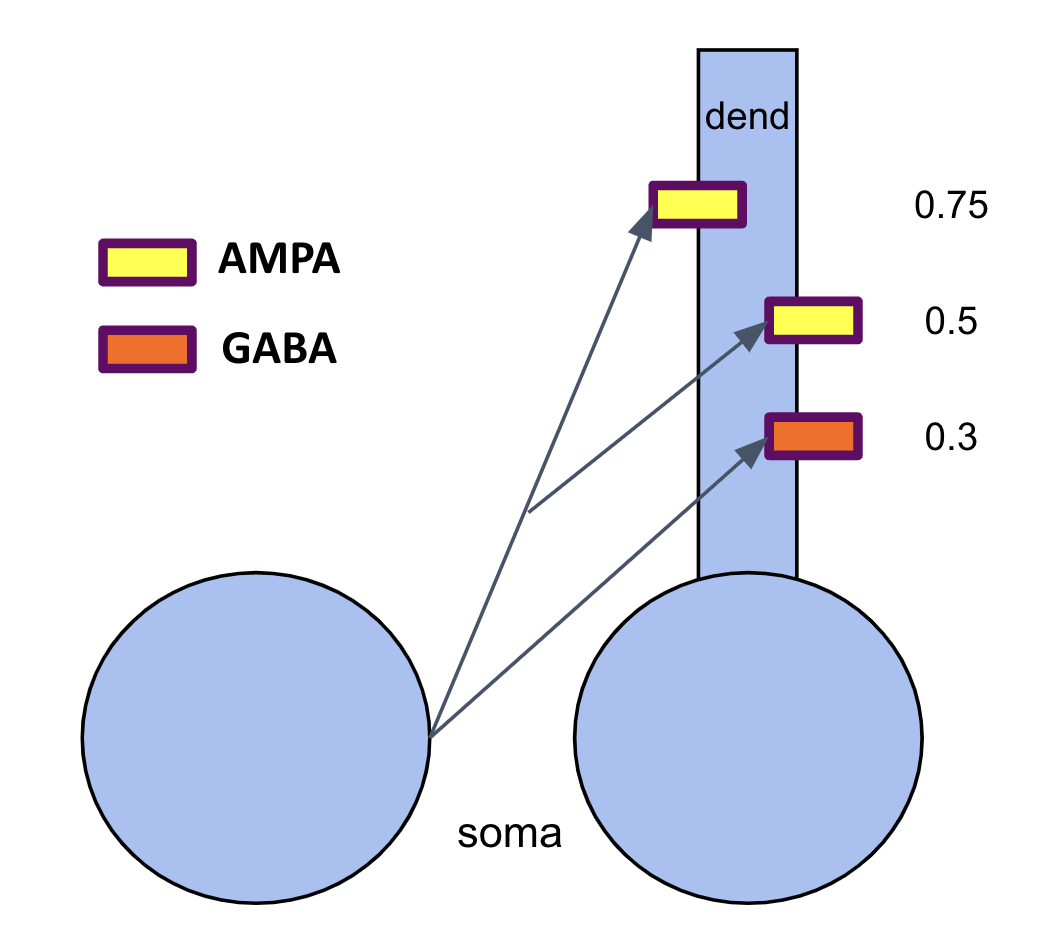
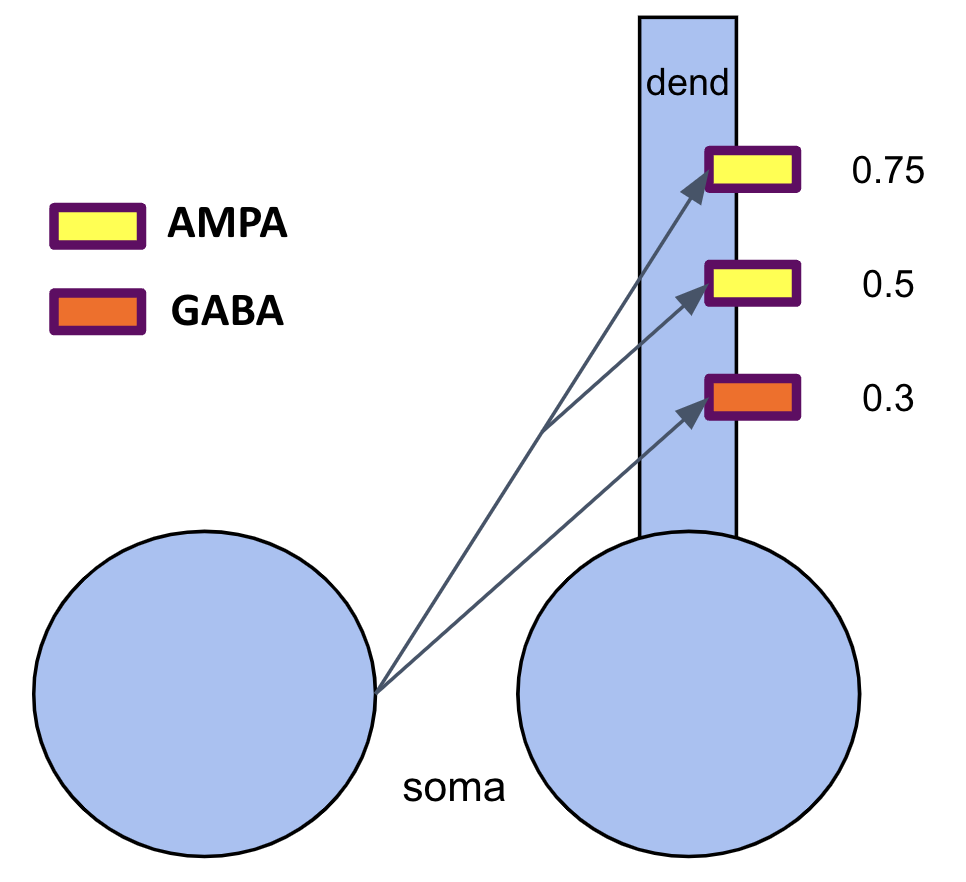
some correcitions to code and docs for multisynaptic connections

diff --git a/netpyne/cell/compartCell.py b/netpyne/cell/compartCell.py
@@ -435,16 +435,7 @@ If this cell is expected to be a point cell instead, make sure the correspondent
                                 mechParamValueFinal = self.__evaluateCellParamsStringFunc(
                                     func, vars, sec, seg.x, cellVars
                                 )
-                        try:
-                            setattr(getattr(seg, mechName), mechParamName, mechParamValueFinal)
-                        except Exception as e:
-                            #  if it's not a global raise AttributeError
-                            if getattr(h, "%s_%s".format(mechParamName, mechName), AttributeError) is AttributeError:
-                                raise AttributeError(
-                                    "Error setting %s.%s.%s = %s\nmechanism parameter is neither a mechanism attribute nor a mechanism global" % (sectName, mechName, mechParamName, mechParamValueFinal)
-                                )
-                            else: #
-                                pass
+                        setattr(getattr(seg, mechName), mechParamName, mechParamValueFinal)
         return mechInsertError
 
     def _addIons(self, sectName, sectParams):
@@ -1378,7 +1369,7 @@ If this cell is expected to be a point cell instead, make sure the correspondent
                     Ey = cos(theta)
                     Ez = sin(theta)*sin(phi)
                     E_field = np.expand_dims([Ex, Ey, Ez], axis=1)
-                    tr = -np.einsum('ij,ij->j', E_field, rel_05)  # compute dot product column-wise, the resulting array has as many columns as original
+                    tr = np.einsum('ij,ij->j', E_field, rel_05)  # compute dot product column-wise, the resulting array has as many columns as original
                     tr *= 1e-9
                 else:
                     print(" Extracellular stimulation not defined")
@@ -1640,7 +1631,7 @@ If this cell is expected to be a point cell instead, make sure the correspondent
         if synsPerConn > 1:  # if more than 1 synapse
             synMechSecs, synMechLocs = self._secsAndLocsForMultisynapse(params, isExplicitLoc, secLabels, connRandomSecFromList, distributeSynsUniformly)
         else:  # if 1 synapse
-            synMechSecs, synMechLocs = self._secsAndLocsForSingleSynapse(params, isExplicitLoc, secLabels, connRandomSecFromList)
+            synMechSecs, synMechLocs = self._secsAndLocsForSingleSynapse(params, secLabels, connRandomSecFromList)
 
         # add synaptic mechanism to section based on synMechSecs and synMechLocs (if already exists won't be added unless nonLinear set to True)
         synMechs = []
@@ -1649,7 +1640,7 @@ If this cell is expected to be a point cell instead, make sure the correspondent
             synMechs.append(synMech)
         return synMechs, synMechSecs, synMechLocs
 
-    def _secsAndLocsForSingleSynapse(self, params, isExplicitLoc, secLabels, connRandomSecFromList):
+    def _secsAndLocsForSingleSynapse(self, params, secLabels, connRandomSecFromList):
 
         # by default place on 1st section of list and location available
         synMechSecs = secLabels
@@ -1658,9 +1649,9 @@ If this cell is expected to be a point cell instead, make sure the correspondent
 
         # randomize the section to connect to and move it to beginning of list
         if connRandomSecFromList and len(synMechSecs) > 1:
-            if isExplicitLoc: # if loc was specified explicitly by user, they should've provided correct number of locs
+            if len(synMechLocs) > 1: # if loc was specified as list, its length should match the number of sections
                 _ensure(len(synMechSecs) == len(synMechLocs), params, "With connRandomSecFromList == True and synsPerConn == 1 (defaults), the lengths of the list of locations and the list of sections must be the same, in order to use the same randomly generated index for both")
-            else: # if using defaults, adjust it to match the number of sections
+            else: # for single loc (or 1-element list), adjust it to match the number of sections
                 synMechLocs = synMechLocs * len(synMechSecs)
 
             rand = h.Random()
@@ -1682,12 +1673,12 @@ If this cell is expected to be a point cell instead, make sure the correspondent
                 _ensure(len(loc) == synsPerConn, params, "The length of the list of locations does not match synsPerConn")
                 synMechLocs = loc
             else: # single value or no value
-                _ensure(isExplicitLoc == False, params, f"specifiyng the `loc` as single value when synsPerConn > 1 ({synsPerConn} in your case) is deprecated. To silence this warning, remove `loc` from the connection parameters or provide a list of {synsPerConn} values (per each synMech if they are several).")
+                _ensure(isExplicitLoc == False, params, f"specifiyng the `loc` as single value when synsPerConn > 1 ({synsPerConn} in your case) is deprecated. To silence this warning, remove `loc` from the connection parameters (locations will be distributed uniformly along the section) or provide a list of {synsPerConn} values (or list of such lists, if your connParams has multiple synMechs).")
                 synMechLocs = [i / synsPerConn + 1 / synsPerConn / 2 for i in range(synsPerConn)]
         else:
             # if multiple sections, distribute syns uniformly
             if distributeSynsUniformly:
-                _ensure(isExplicitLoc == False, params, f"specifiyng the `loc` explicitly when distributeSynsUniformly is True and multiple sections provided is deprecated. To silence this warning, remove `loc` from the connection parameters or set distributeSynsUniformly to False.")
+                _ensure(isExplicitLoc == False, params, f"specifiyng the `loc` explicitly when distributeSynsUniformly is True (default) and multiple sections are provided is deprecated. To silence this warning, remove `loc` from the connection parameters or set distributeSynsUniformly to False.")
                 synMechSecs, synMechLocs = self._distributeSynsUniformly(secList=secLabels, numSyns=synsPerConn)
             else:
                 if connRandomSecFromList:
@@ -1705,7 +1696,7 @@ If this cell is expected to be a point cell instead, make sure the correspondent
                     synMechSecs = secLabels
                     synMechLocs = loc
         return synMechSecs, synMechLocs
-    
+
     def _randomSecAndLocFromList(self, params, synsPerConn, secLabels, loc, isExplicitLoc):
         rand = h.Random()
         preGid = params['preGid'] if isinstance(params['preGid'], int) else 0
@@ -1723,7 +1714,7 @@ If this cell is expected to be a point cell instead, make sure the correspondent
             randLocPos = randInt(rand, N=synsPerConn, vmin=0, vmax=maxval, unique=isUnique)
             synMechLocs = [loc[i] for i in randLocPos]
         else:
-            _ensure(isExplicitLoc == False, params, f"specifiyng the `loc` explicitly when distributeSynsUniformly is False and connRandomSecFromList is True (with multiple sections provided) is deprecated. To silence this warning, remove `loc` from the connection parameters.")
+            _ensure(isExplicitLoc == False, params, f"specifiyng the `loc` as single value when connRandomSecFromList is True (with multiple sections provided) is deprecated. To silence this warning, provide a list, or remove `loc` from the connection parameters (locations will be picked from a uniform distribution).")
 
             rand.uniform(0, 1)
             synMechLocs = h.Vector(synsPerConn).setrand(rand).to_python()

diff --git a/doc/source/user_documentation.rst b/doc/source/user_documentation.rst
@@ -378,7 +378,9 @@ Each item of the ``connParams`` ordered dictionary consists of a key and value. 
 
 	Can be defined as a name of a single section, a list of sections, e.g. ``['soma', 'dend']``, or key from **secList** dictionary of post-synaptic cellParams.
 
-	If specified as a list, can be handled in different ways - see :ref:`Multisynapse connections<multisynapse_conn>` for more details.
+	If ``synsPerConn`` > 1 and a list of sections is specified, synapses will be distributed uniformly along the specified section(s), taking into account the length of each section. This is a default behavior, but it can be modified - see :ref:`Multisynapse connections<multisynapse_conn>` for details and examples.
+
+	If ``synsPerConn`` == 1 and a list of sections is specified, synapses (one per cell-to-cell connection) will be placed in sections randomly selected from the list. To enforce using always the first section from the list, set :ref:`connRandomSecFromList<conn_rand_sec>`.
 
 * **loc** (optional) - Location of target synaptic mechanism (e.g. ``0.3``)
 	If omitted, defaults to 0.5.
@@ -390,6 +392,8 @@ Each item of the ``connParams`` ordered dictionary consists of a key and value. 
 	If you have both a list of ``synMechs`` and ``synsPerConn`` > 1, you can have a 2D list for each synapse of each synMech (e.g. for two synMechs and ``synsPerConn`` = 3: ``[[0.2, 0.3, 0.5], [0.5, 0.6, 0.7]]``)
 
 	In these multisynapse scenarios, additional parameters become available - see :ref:`Multisynapse connections<multisynapse_conn>` for more details.
+
+	If ``synsPerConn`` == 1 and both ``loc`` and ``sec`` are lists, synapses (one per presynaptic cell) will be placed in locations and sections randomly selected from the lists (note that the random section and location will go hand in hand, i.e. the same random index is used for both). To enforce using always the first section and location from their respective lists, set :ref:`connRandomSecFromList<conn_rand_sec>`, or keep either ``loc`` or ``sec`` as a single value.
 
 
 * **synMech** (optional) - Label (or list of labels) of target synaptic mechanism(s) on the postsynaptic neuron (e.g. ``'AMPA'`` or ``['AMPA', 'NMDA']``)
@@ -406,9 +410,24 @@ Each item of the ``connParams`` ordered dictionary consists of a key and value. 
 
 	The weights, delays and/or locs for each synapse can be specified as a list, or a single value can be used for all.
 
-	When ``synsPerConn`` > 1 and a *single section* is specified, the locations of synapses can be specified as a list in ``loc``. If a *list of target sections* is specified, ``loc`` should be omitted, and synapses will be distributed uniformly along the specified section(s), taking into account the length of each section. See :ref:`Multisynapse connections<multisynapse_conn>` for more details.
+	When ``synsPerConn`` > 1 and a *single section* is specified, the locations of synapses can be specified as a list in ``loc``. If a *list of target sections* is specified, ``loc`` should be omitted, and synapses will be distributed uniformly along the specified section(s), taking into account the length of each section. This is a default behavior, but it can be modified - see :ref:`Multisynapse connections<multisynapse_conn>` for more details.
 
-	If you have a list of ``synMechs``, you can have single ``synsPerConn`` value for all, or a list of values, one per synaptic mechanism in the list.
+	If you have a list of ``synMechs``, you can have single ``synsPerConn`` value for all, or a list of values, one per synaptic mechanism in the list:
+
+	.. code-block:: python
+
+		# 2 AMPA synapses and 2 GABA synapses per each cell-to-cell connection:
+		netParams.connParams[...] = {
+			'synMech': ['AMPA', 'GABA'],
+			'synsPerConn': 2,
+		# ...
+		
+		# 2 AMPA synapses and 1 GABA synapse per each cell-to-cell connection:
+		netParams.connParams[...] = {
+			'synMech': ['AMPA', 'GABA'],
+			'synsPerConn': [2, 1],
+		# ...
+		
 
 * **weight** (optional) - Strength of synaptic connection (e.g. ``0.01``)
 	Associated with a change in conductance, but has different meaning and scale depending on the synaptic mechanism and cell model.
@@ -535,67 +554,72 @@ Here is an example of connectivity rules:
 
 **Connectivity Rules with Multiple Synapses per Connection**
 
-By default, there is only one synapse created per connection. However, multiple synapses can be created targeting each post-synaptic cell. This can be achieved by setting ``synsPerConn`` to a value greater than 1, or by defining ``synMech`` as a list, or both.
+By default, there is only one synapse created per cell-to-cell connection. However, a connection can include multiple individual synaptic contacts, e.g., a presynaptic cell axon can branch and form multiple synaptic contacts at different locations of the postsynaptic cell dendrite. This can be achieved by setting ``synsPerConn`` to a value greater than 1, or by defining ``synMech`` as a list, or both.
 
-* Setting ``synsPerConn`` >= 1 with ``synMech`` as a single value
-	If ``synsPerConn`` is > 1, then for each connection, this number of synapses will be created. The weights and delays can be specified as lists, or a single value can be used for all. ``loc`` should be a list, a single value is not accepted. If ``loc`` is omitted, a uniform distribution is used (i.e., synapses are placed at equal distances along the section).
+* Setting ``synsPerConn`` > 1 with ``synMech`` as a single value
+	If ``synsPerConn`` is > 1, then for each connection, this number of synapses will be created. The weights and delays can be specified as lists, or a single value can be used for all (see example below).
 
-	.. code-block:: python
+	* When a **single section** is specified, all synapses will be created within that section, and their locations can be specified as a list in ``loc`` (one per synapse).
 
-		netParams.connParams['PYR->PYR'] = {
-			'preConds': {'pop': 'src'}, 'postConds': {'pop': 'dst'},
-			'synsPerConn': 2,
-			'weight': [0.1, 0.2], # individual weights for each synapse
-			'delay': 0.1, # single delay for all synapses
-			'loc': [0.5, 1.0] # individual locations for each synapse
-		}
-		# This will create 2 synapses: one with weight 0.1, delay 0.1, and loc 0.5
-		# and another with weight 0.2, delay 0.1, and loc 1.0.
+		.. code-block:: python
 
-	When ``synsPerConn`` > 1 and a *single* section is specified, all synapses will be created there, and the locations of synapses can be specified as a list in ``loc`` (one per synapse, e.g., if ``synsPerConn`` = 3: ``[0.4, 0.5, 0.7]``).
+			netParams.connParams[...] = {
+				'synsPerConn': 2,
+				'sec': 'soma',
+				'synMech': 'AMPA',
+				'weight': [0.1, 0.2], # individual weights for each synapse
+				'delay': 0.1, # single delay for all synapses
+				'loc': [0.5, 1.0] # individual locations for each synapse
+			# ...
 
-	If a *list of sections* is specified (either explicitly or as a key from `secLists`), synapses will be distributed uniformly along the specified section(s), taking into account the length of each section. (E.g., if you provide 'soma' and 'dend' with lengths 10 and 20 respectively, and ``synsPerConn`` = 5, the following sections and locations will be as shown in the figure below). Providing location explicitly is not possible in this case.
+			# This will create 2 synapses: one with weight 0.1, delay 0.1, and loc 0.5
+			# and another with weight 0.2, delay 0.1, and loc 1.0.
 
-	.. image:: figs/multisyn_0.png
-		:width: 50%
-		:align: center
+		A single value for ``loc`` is not accepted. If it is omitted, synapses are placed at equal distances along the section (e.g. with ``synsPerConn`` = 3, synapses will be placed at 0.1666, 0.5 and 0.8333).
 
-	The behavior above is due to the ``distributeSynsUniformly`` flag, which is True by default. Alternatively, if it is set to False (and ``connRandomSecFromList`` is True, which is default value), a random section will be picked from the sections list for each synapse. The ``loc`` value should also be a list, and the values will be picked from it randomly and independently from section choice. If the length of sections or locations list is greater or equal to ``synsPerConn``, random choice is guaranteed to be without replacement. If ``loc`` is omitted, the value for each synapse is randomly sampled from uniform[0, 1]. 
+	* When a **list of sections** is specified (either explicitly or as a key from ``secLists``), the connection logic depends on ``distributeSynsUniformly`` and ``connRandomSecFromList`` attributes. These can be set globally through :ref:`simConfig<conn_rand_sec>`, or individually for each connParams entry (e.g. ``netParams.connParams[...] = {..., 'distributeSynsUniformly': False}``), with individual settings taking precedence. The following options are available:
 
-	To enforce a deterministic way of picking ``sec`` and ``loc``, set ``connRandomSecFromList`` to False (N-th synapse then gets N-th section and N-th loc from their respective lists, or if ``loc`` is a single value, it is used for all synapses). Make sure that lists of sections and locations both have the length equal to ``synsPerConn``.
+		* ``distributeSynsUniformly`` = True (Default)
+			Synapses will be distributed uniformly along the specified section(s), taking into account the length of each section. (E.g., if you specify ``'sec': ['soma', 'dend']`` with lengths of 10 and 20 respectively, and set ``synsPerConn`` = 5, the resulting distribution of synapses will be in the sections and locations illustrated in the figure below). Providing location explicitly is not possible in th is case.
 
-	If ``synsPerConn`` == 1, and a list of sections is specified, synapses (one per presynaptic cell) will be placed in sections randomly selected from the list. If ``loc`` is also a list, locations will be picked randomly (note that the random section and location will go hand in hand, i.e., the same random index is used for both).
+			.. image:: figs/multisyn_0.png
+				:width: 50%
+				:align: center
+
+		* ``distributeSynsUniformly`` = False
+			* If ``connRandomSecFromList`` is ``True`` (default), a random section will be picked from the sections list for each synapse. The ``loc`` value should also be a list, and the values will be picked from it randomly and independently from section choice. If the length of sections or locations list is greater or equal to ``synsPerConn``, random choice is guaranteed to be without replacement. If ``loc`` is omitted, the value for each synapse is randomly sampled from uniform[0, 1].
+
+			* If ``connRandomSecFromList`` is ``False``, sections and locations are assigned deterministically: the N-th synapse receives the N-th section and N-th location from their respective lists (or if ``loc`` is a single value, it is used for all synapses). Ensure that lists of sections and locations both have the length equal to ``synsPerConn``.
 
 * Setting ``synMech`` as a list
 	If ``synMech`` is a list, then for each mechanism in the list, a synapse will be created. The weights, delays, and locs can be specified as lists of the same length as ``synMech``, or a single value can be used for all.
 
 	.. code-block:: python
 
-		netParams.connParams['PYR->PYR'] = {
-			'preConds': {'pop': 'src'}, 'postConds': {'pop': 'dst'},
+		netParams.connParams[...] = {
 			'synMech': ['AMPA', 'GABA'],
 			'weight': [0.1, 0.2], # individual weights for each synapse
 			'delay': 0.1, # single delay for all synapses
-		}
+		# ...
+
 		# This will create 2 synapses: one with AMPA synMech and weight 0.1
 		# and another with GABA synMech and weight 0.2. Both will have the same delay of 0.1.
 
 
-	However, for the sections, no such one-to-one correspondence to ``synMech`` elements applies. Instead, contents of ``secs`` are repeated for each synapse.
+	However, for the sections, no such one-to-one correspondence to ``synMech`` elements applies. Instead, contents of ``secs`` are repeated for each synMech.
 
 	.. code-block:: python
 
-		netParams.connParams['PYR->PYR'] = {
-			'preConds': {'pop': 'src'}, 'postConds': {'pop': 'dst'},
+		netParams.connParams[...] = {
 			'synMech': ['AMPA', 'GABA'],
 			'sec': ['soma', 'dend']
-		}
+		# ...
 		# Both AMPA and GABA synapses will span 'soma' and 'dend' sections
 
 	If you want to have different sections, separate connectivity rules (``connParams`` entries) should be defined for each synaptic mechanism.
 
-* Both ``synMech`` as a list and ``synsPerConn`` > 1
-	If you have both a N-element list of ``synMechs`` and ``synsPerConn`` > 1, weights and delays can still be specified as a single value for all synapses, as a list of length N (each value corresponding to ``synMech`` list index), or a 2D list with outer dimension N (corresponding to ``synMechs``) and inner dimension corresponding to ``synsPerConn``.
+* Setting both ``synMech`` as a list and ``synsPerConn`` > 1
+	If you have both a N-element list of ``synMechs`` and ``synsPerConn`` > 1, weights and delays can still be specified as a single value for all synapses, as a list of length N (each value corresponding to ``synMech`` list index), or a 2D list with outer dimension N corresponding to ``synMechs`` and inner dimension corresponding to ``synsPerConn``.
 
 	.. image:: figs/multisyn_1.png
 		:width: 35%
@@ -603,24 +627,22 @@ By default, there is only one synapse created per connection. However, multiple 
 
 	.. code-block:: python
 
-		netParams.connParams['PYR->PYR'] = {
-			'preConds': {'pop': 'src'}, 'postConds': {'pop': 'dst'},
+		netParams.connParams[...] = {
 			'synMech': ['AMPA', 'GABA'],
 			'sec': 'dend',
 			'synsPerConn': [2, 1],
 			'loc': [[0.5, 0.75], [0.3]],
 			'distributeSynsUniformly': False,
-		}
+		# ...
 
-	Note that ``synsPerConn`` itself can be a list, so that each ``synMech`` can correspond to a distinct number of synapses.
+	Note that, as shown in the example, ``synsPerConn`` itself can be a list, so that each ``synMech`` can correspond to a distinct number of synapses.
 
 * Usage with **'connList'**
-	If, in addition, you are using **'connList'**-based connectivity (explicit list of connections between individual pre- and post-synaptic cells), then the weights, delays, locs, secs are lists that can be described by up to 3-dimensional lists. The outer dimension now corresponds to the length of ``connList`` (i.e., number of cell-to-cell connections). Then the same logic as above applies to each element of this outer list.
+	If, in addition, you want to use **'connList'**-based connectivity (explicit list of connections between individual pre- and post-synaptic cells), then weights, delays, locs, and secs can be described as lists of up to three dimensions. The outermost dimension will now correspond to the length of ``connList`` (i.e., the number of cell-to-cell connections). The same logic described above will apply to each element of this outer list.
 
 	.. code-block:: python
 
-		netParams.connParams['PYR->PYR'] = {
-			'preConds': {'pop': 'src'}, 'postConds': {'pop': 'dst'},
+		netParams.connParams[...] = {
 			'connList': [[0,0], [1,0]],
 			'synMech': ['AMPA', 'GABA'],
 			'synsPerConn': 3,
@@ -629,7 +651,7 @@ By default, there is only one synapse created per connection. However, multiple 
 
 			'delay': [[0.1, 0.2], # first conn: AMPA, GABA, same for all syns in synsPerConn
 					[0.3, 0.4]],  # second conn: AMPA, GABA (...)
-		}
+		# ...
 
 .. _function_string:
 
@@ -1152,8 +1174,9 @@ Related to the simulation and NetPyNE framework:
 * **addSynMechs** - Whether to add synaptic mechanisms or not (default: True)
 * **gatherOnlySimData** - Omits gathering of net and cell data thus reducing gatherData time (default: False)
 * **compactConnFormat** - Replace dict format with compact list format for conns (need to provide list of keys to include) (default: False)
-* **connRandomSecFromList** - Select random section (and location) from list even when synsPerConn=1 (default: True) 
-* **distributeSynsUniformly** - Locate synapses uniformly across section list; if false, place one syn per section in section list (default: True)
+.. _conn_rand_sec:
+* **connRandomSecFromList** - Select random section (and location) from list even when synsPerConn=1 (default: True). Can be overridden for individual connParams entries. See :ref:`Multisynapse connections<multisynapse_conn>` for more details.
+* **distributeSynsUniformly** - Locate synapses uniformly across section list; if false, place one syn per section in section list (default: True). Can be overridden for individual connParams entries. See :ref:`Multisynapse connections<multisynapse_conn>` for more details.
 * **pt3dRelativeToCellLocation** - True  # Make cell 3d points relative to the cell x,y,z location (default: True)
 * **invertedYCoord** - Make y-axis coordinate negative so they represent depth when visualized (0 at the top) (default: True)
 * **allowSelfConns** - Allow connections from a cell to itself (default: False)
